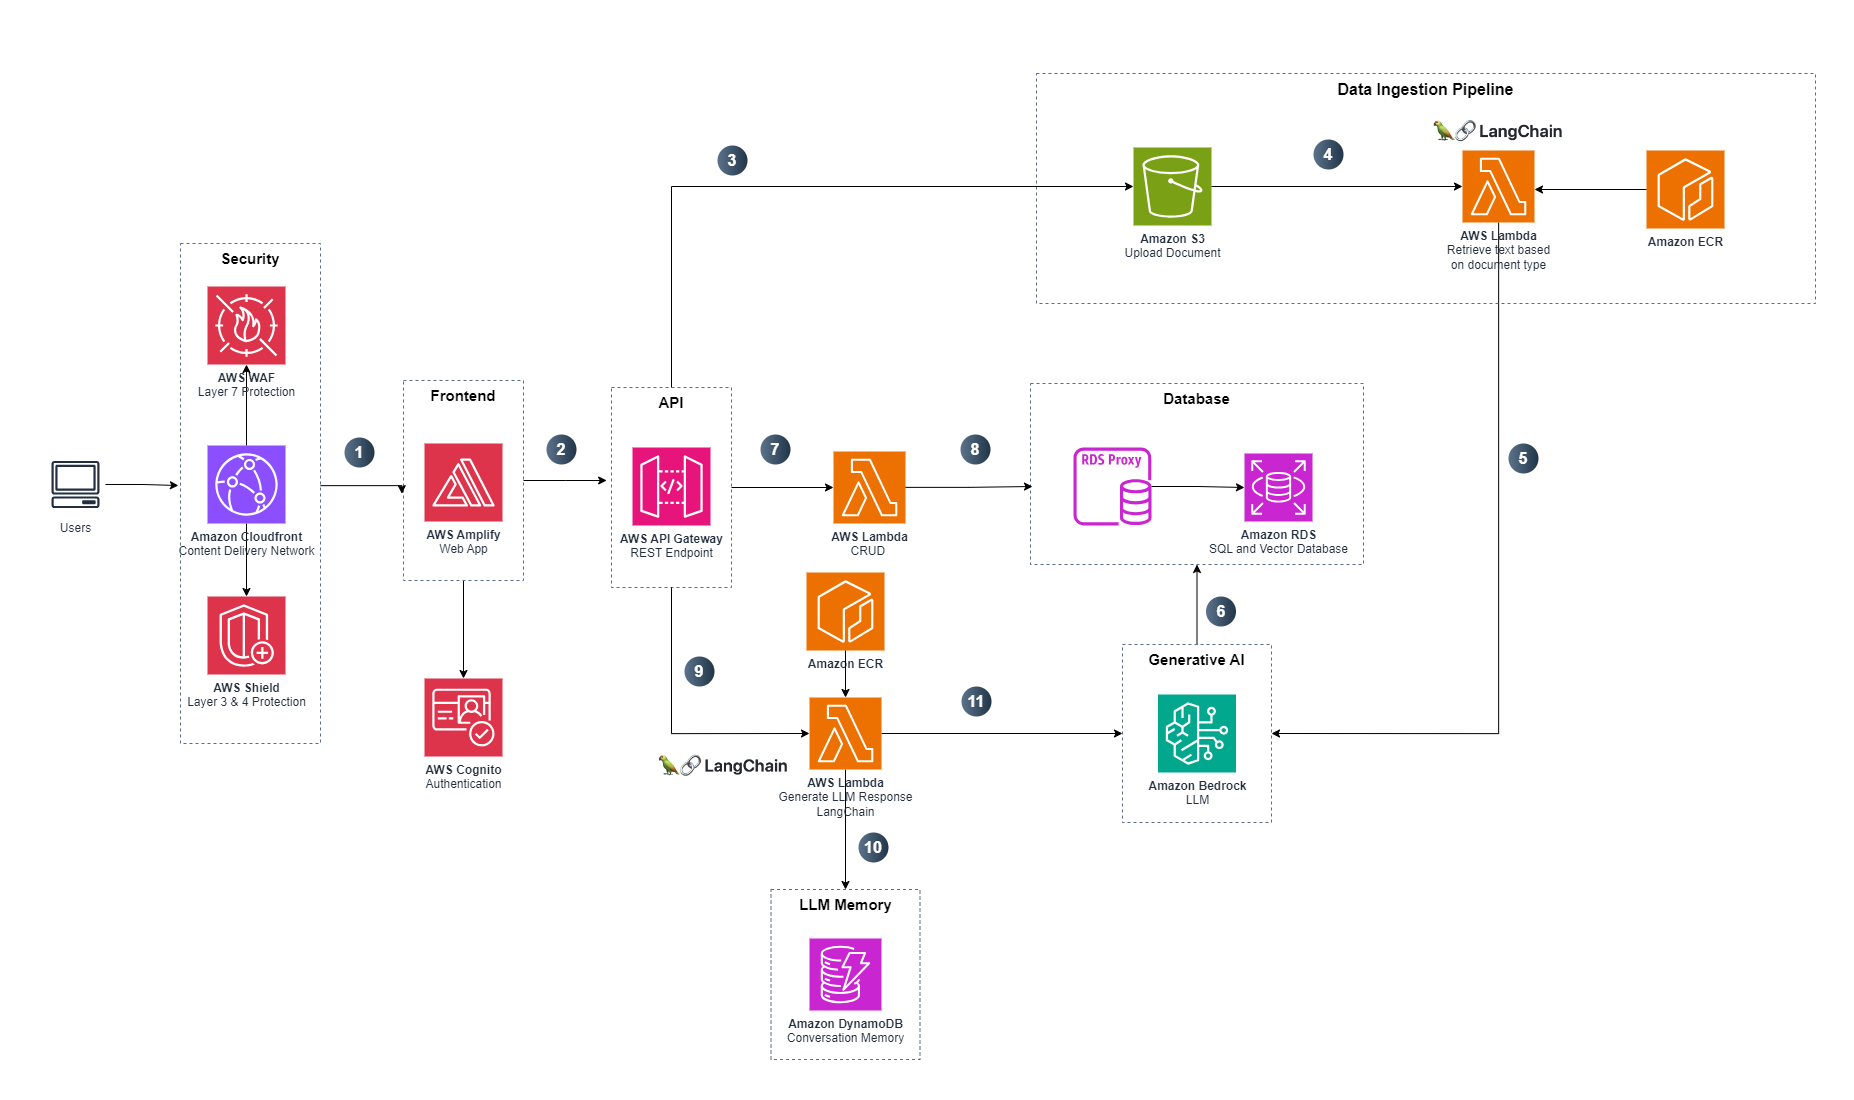
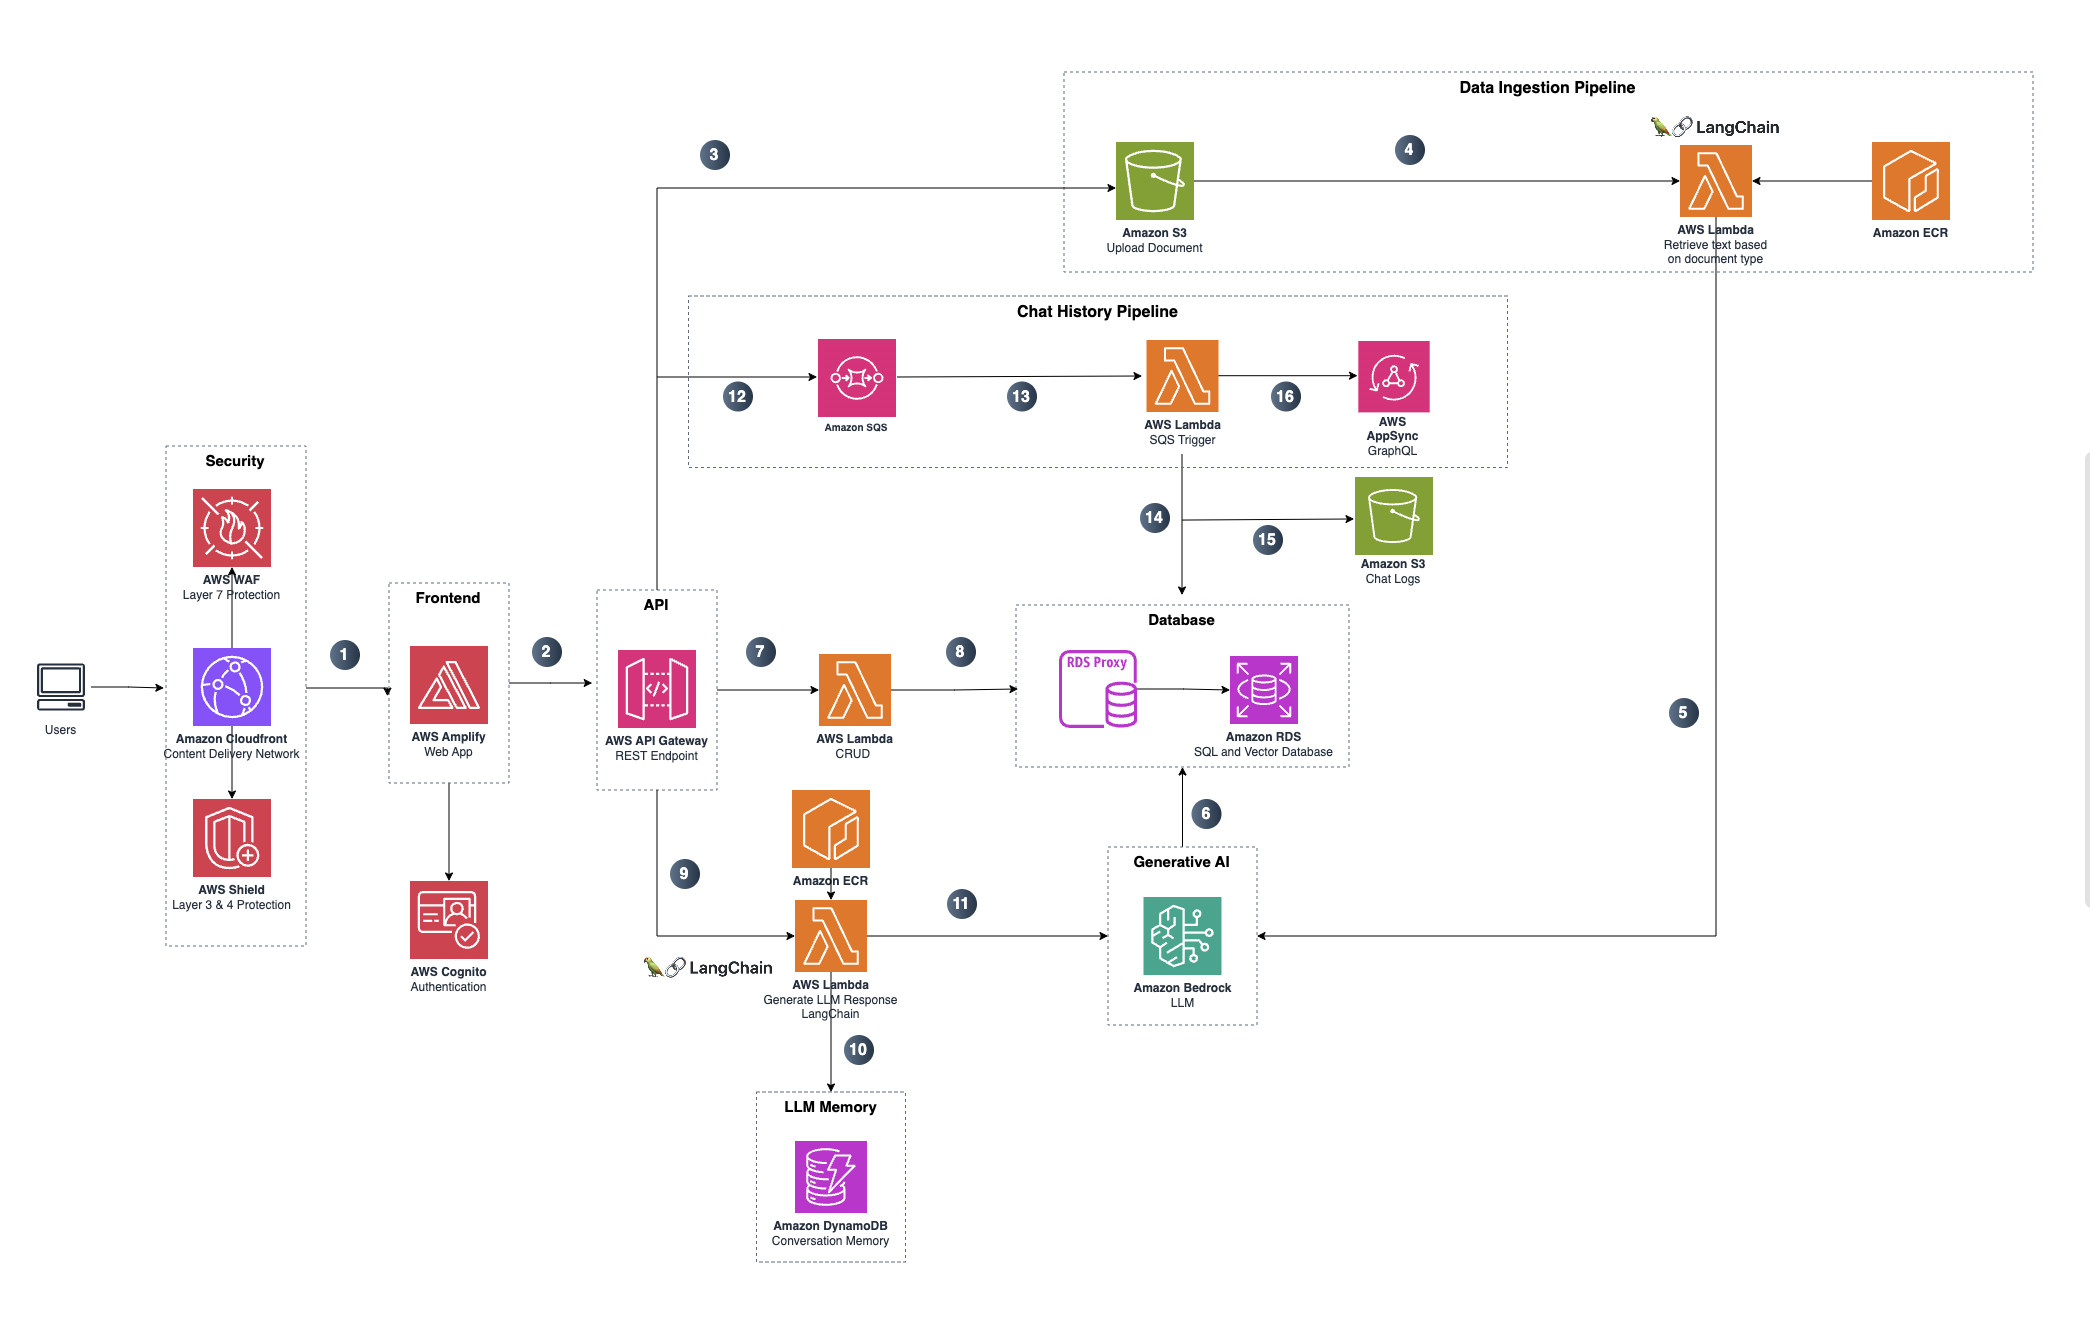
architecture diagram updated

diff --git a/docs/architectureDeepDive.md b/docs/architectureDeepDive.md
@@ -17,6 +17,11 @@
 9. Users can start chatting with the LLM by sending an API request that invokes the Lambda function to generate a response. The Lambda function runs a Docker container with Amazon ECR.
 10. The lambda function stores the embedded messages in Amazon DynamoDB
 11. This lambda function uses RAG architecture to retrieve the response from LLMs hosted on Amazon Bedrock augmented with the course's information stored in the Amazon RDS.
+12. When an instructor clicks download chat logs, it is queued in Amazon SQS.
+13. An AWS Lambda function is triggered by the SQS queue to process the chat messages asynchronously.
+14. The processed chat messages are then stored in the Amazon RDS database for structured storage and retrieval.
+15. Additionally, chat logs are stored in Amazon S3.
+16. The Lambda function also interacts with AWS AppSync (GraphQL) to update the frontend chat interface in real-time, with notifications for when the CSV is finished downlaoding.
 
 ## Database Schema
 
